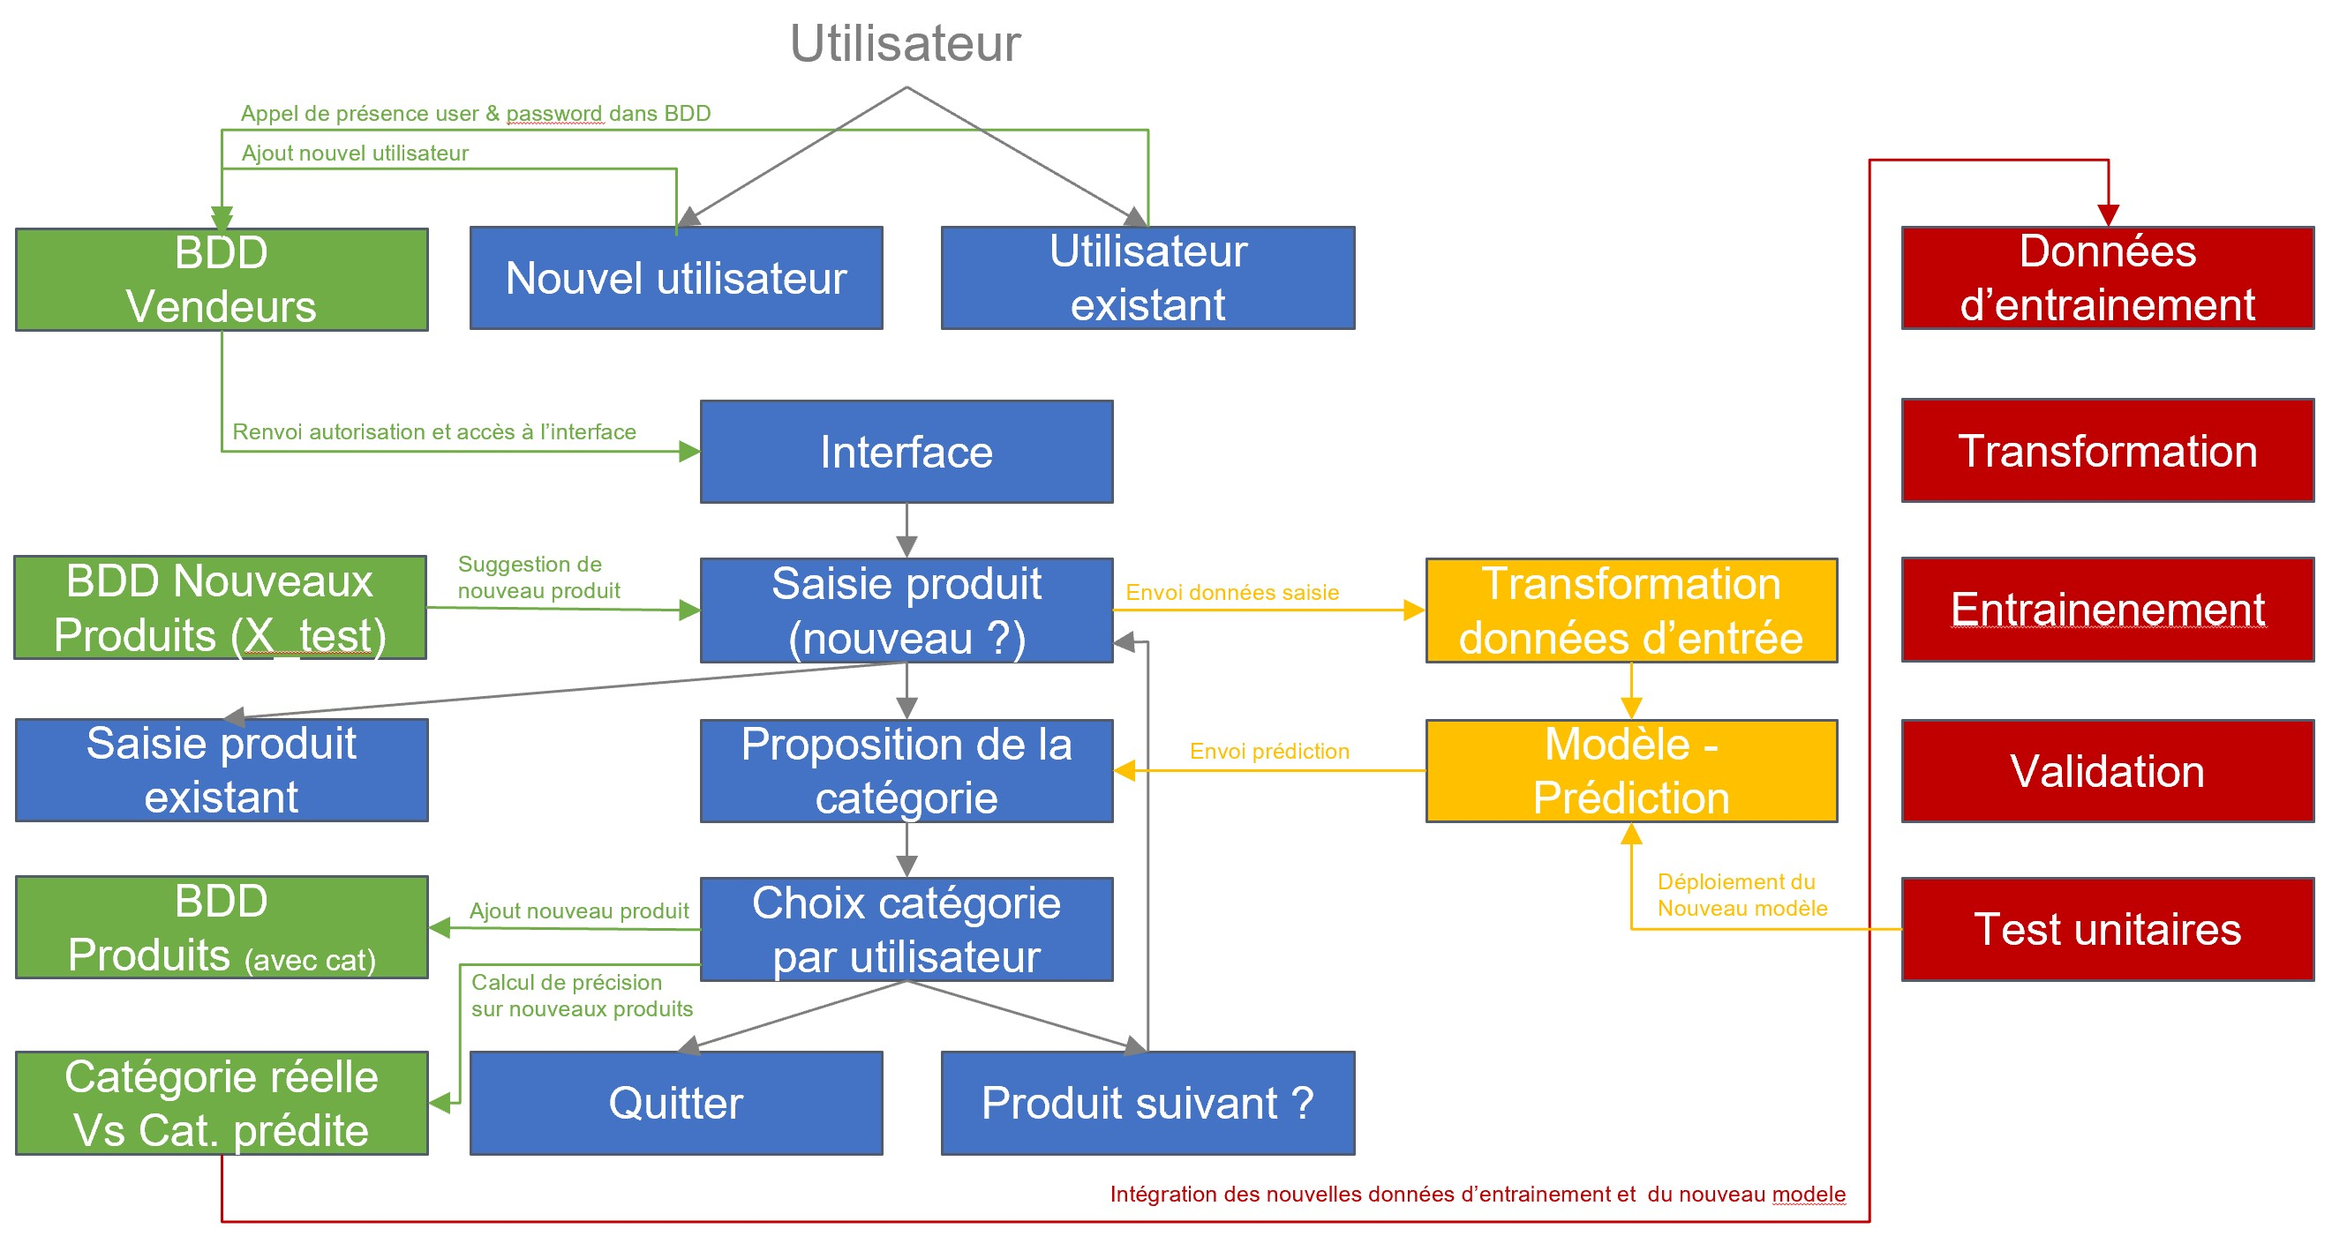
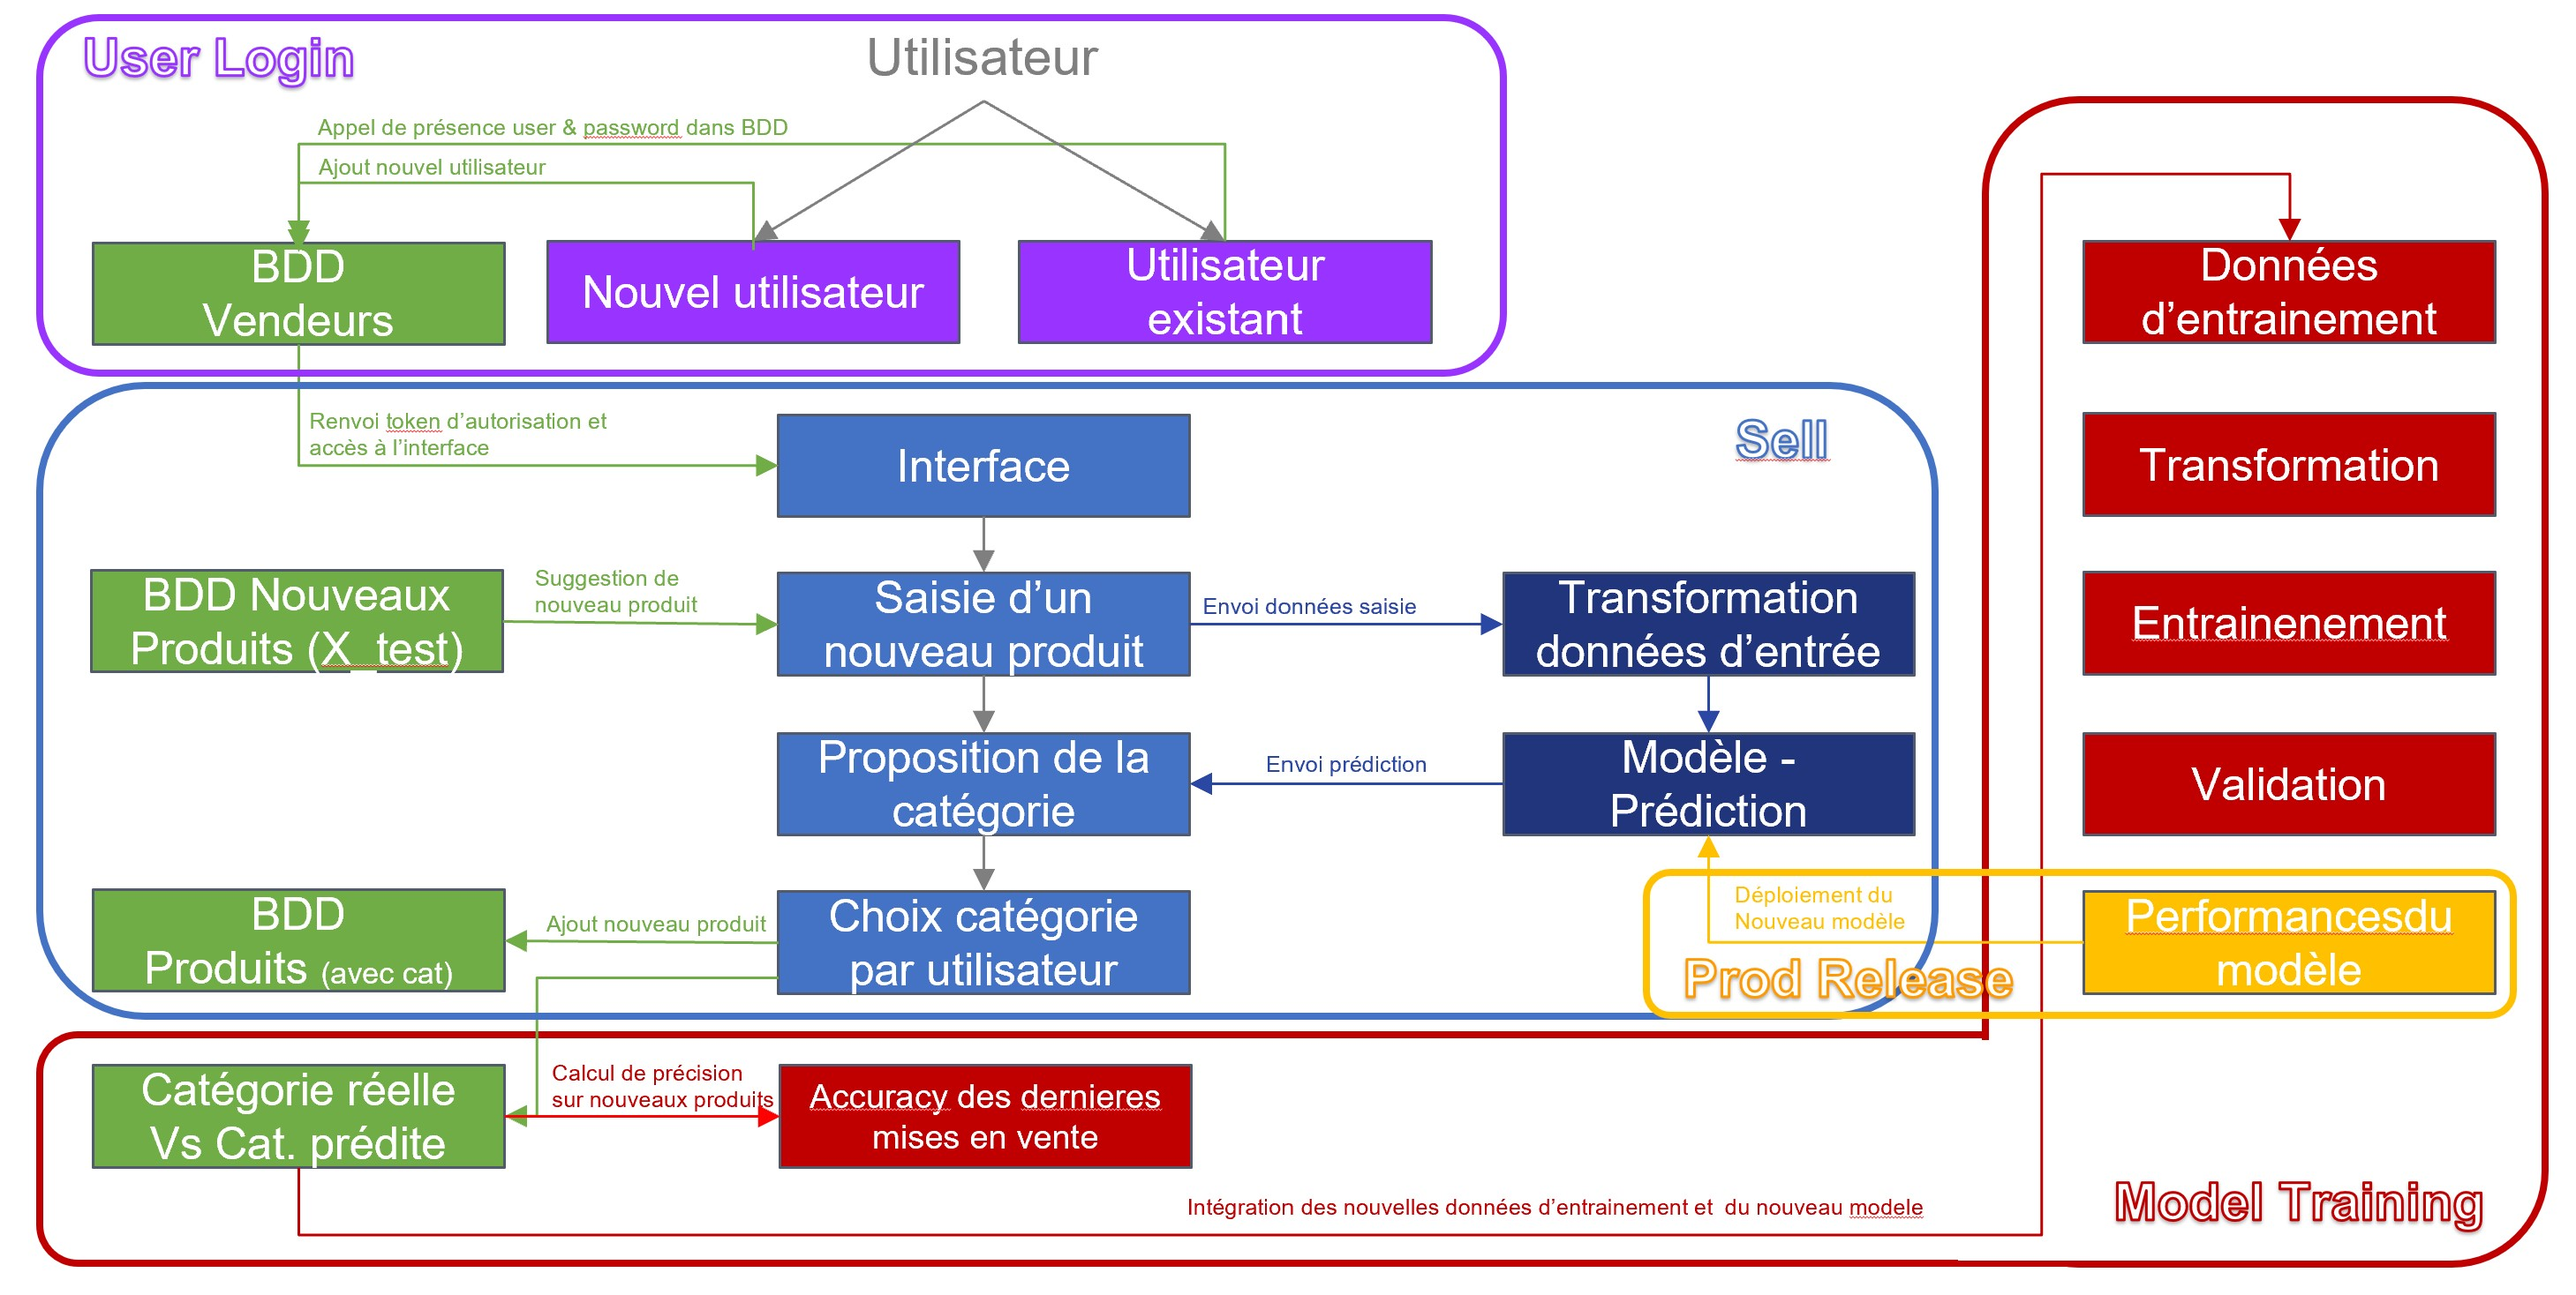
Final update

diff --git a/tests/test_rakuten.py b/tests/test_rakuten.py
@@ -1,0 +1,187 @@
+import os
+import requests
+from dotenv import load_dotenv
+import mysql.connector
+from mysql.connector import Error
+
+# Chargement du fichier .env uniquement si le script est exécuté manuellement
+if not os.getenv('GITHUB_ACTIONS'):
+    dotenv_path = 'docker/.env'
+    load_dotenv(dotenv_path)
+
+# Récupération des tokens d'accès depuis les variables d'environnement
+ACCESS_TOKEN_AUTH_0 = os.environ.get('ACCESS_TOKEN_AUTH_0')
+ACCESS_TOKEN_AUTH_1 = os.environ.get('ACCESS_TOKEN_AUTH_1')
+ACCESS_TOKEN_AUTH_2 = os.environ.get('ACCESS_TOKEN_AUTH_2')
+MYSQL_HOST = "localhost"
+MYSQL_USER = "root"
+MYSQL_PASSWORD = os.getenv("MYSQL_ROOT_PWD")
+MYSQL_DB = "rakuten_db"
+
+def test_calc_addition():
+    # Fonction test du résultat de 2+4
+    output = 2 + 4
+    assert output == 6
+    
+##############################################################################################  
+####### 1. Vérification du bon fonctionnement de la base de données Utilisateurs MySQL #######
+##############################################################################################    
+def test_MySQL():
+    
+    try:
+        connection = mysql.connector.connect(
+            host=MYSQL_HOST,
+            user=MYSQL_USER,
+            port="3306", 
+            password=MYSQL_PASSWORD,
+            database=MYSQL_DB
+        )
+        if connection.is_connected():
+            cursor = connection.cursor(dictionary=True)
+            query = f"SELECT * FROM Users WHERE username = 'Alice'"
+            cursor.execute(query)
+            user_connected = cursor.fetchone()
+            ### 1.1  Vérification du fonctionnement de la base de données Utilisateurs MySQL avec username == 'Alice'###
+            assert user_connected["username"] == 'Alice'
+            ### 1.2  Vérification du fonctionnement de la base de données Utilisateurs MySQL avec LastName == 'Sapritch'###
+            assert user_connected["LastName"] == 'Sapritch'
+            return
+    except Error as e:
+        print(f"Error while querying MySQL: {e}")
+    finally:
+        cursor.close()
+        connection.close()
+        
+################################################################################         
+####### 2. Vérification du bon fonctionnement de l'API FastAPI OAuth 2.0 #######
+#######    pour la génération de token et des accès sécurisés            #######
+################################################################################ 
+def test_access_authorization():
+    
+    url = 'http://localhost:8001'
+    
+    # 2.1 - Vérification du fonctionnement de l'API
+    response = requests.get(url)
+    # 2.2 - Vérification du fonctionnement de l'API acces sécurisé###
+    assert response.status_code == 200
+    
+    # 2.3 - Vérification de la génération de token
+    headers = {
+        'Content-Type': 'application/x-www-form-urlencoded',
+    }
+    data = {
+        'username': 'Alice',
+        'password': 'Alice',
+    }
+    response = requests.post(url+"/token", headers=headers, data=data)
+    ### 2.3.a - Vérification du processus de génération de token ###
+    assert response.status_code == 200
+    ### 2.3.b - Vérification de la valeur du token pour Alice ###
+    assert response.json()["access_token"]==ACCESS_TOKEN_AUTH_0
+    
+    # 2.4 Vérification de l'accès sécurisé en utilisant le token d'accès
+    #     Authorization niveau 0 = Pas d'acces au Train du modèle ni à la prediction
+    response = requests.get(url+"/secured", headers={"Authorization": f"Bearer {ACCESS_TOKEN_AUTH_0}"})
+    ### 2.4 - Authorisation niveau 0 pour Alice => Pas d'acces au Train du modèle ni à la prediction ###
+    assert response.status_code == 200
+    
+    # 2.5 - Authorization niveau 1 = Accès seulement à la prediction, mais pas d'acces au Train du modèle
+    response = requests.get(url+"/secured", headers={"Authorization": f"Bearer {ACCESS_TOKEN_AUTH_1}"})
+    ### 2.5 - Authorisation niveau 1 pour John => Accès seulement à la prediction, mais pas d'acces au Train du modèle ###
+    assert response.status_code == 200
+    
+    # 2.6 - Authorization niveau 2 = Accès à la prediction et au Train du modèle
+    response = requests.get(url+"/secured", headers={"Authorization": f"Bearer {ACCESS_TOKEN_AUTH_2}"})
+    ### 2.6 - Authorisation niveau 2 pour Fadimatou => Accès à la prediction et au Train du modèle ###
+    assert response.status_code == 200
+
+######################################################################
+####### 3. Vérification du bon fonctionnement de l'API Predict #######
+######################################################################
+def test_predict():
+    
+    url = 'http://localhost:8000'
+    
+    # 3.1 - Vérification de l'initialisation de l'API
+    response = requests.get(url+"/initialisation")
+    ### 3.1 - Vérification de l'initialisation de l'API ###
+    assert response.status_code == 200 
+    
+    # 3.2 - Vérification de la predicition en mode unsecured
+    headers={'Content-Type': 'application/json',
+             "Authorization": f"Bearer {ACCESS_TOKEN_AUTH_1}"
+             }
+    data={"dataset_path": "tests/predict/X_test_update.csv",
+          "images_path": "tests/predict/image_test",
+          "prediction_path": "tests/predict",
+          "api_secured": False,
+          }
+    response = requests.post(url+"/prediction", headers=headers, json=data)
+    # Vérifier si la réponse est valide avant de la décoder en JSON
+    if response.status_code == 200:
+        try:
+            response_json = response.json()
+        except ValueError:
+            print("Response is not in JSON format")
+    else:
+        print("Request failed with status code:", response.status_code)
+        print("Response Text:", response.text)
+
+    ### 3.2 - Vérification de la predicition en mode unsecured ###
+    assert response.status_code == 200
+    
+    # 3.3 Vérification de la predicition en mode secured avec un niveau d'autorisation = 1
+    headers={'Content-Type': 'application/json',
+             "Authorization": f"Bearer {ACCESS_TOKEN_AUTH_1}"
+             }
+    data["api_secured"] = True
+    response = requests.post(url+"/prediction", headers=headers, json=data)
+    ### 3.3 - Vérification de la predicition en mode secured avec un niveau d'autorisation = 1 ###
+    assert (response.status_code == 200)
+    
+    # 3.4 - Vérification du refus de predicition en mode secured avec un niveau d'autorisation = 0
+    headers={'Content-Type': 'application/json',
+             "Authorization": f"Bearer {ACCESS_TOKEN_AUTH_0}"
+             }
+    response = requests.post(url+"/prediction", headers=headers, json=data)
+    ### 3.4 - Vérification du refus de predicition en mode secured avec un niveau d'autorisation = 0 ###
+    assert response.status_code == 403
+    
+####################################################################
+####### 4. Vérification du bon fonctionnement de l'API Train #######
+####################################################################
+def test_train():
+    
+    url = 'http://localhost:8002'
+    
+  
+    # 4.1 - Vérification de la predicition en mode secured
+    headers={'Content-Type': 'application/json',
+             "Authorization": f"Bearer {ACCESS_TOKEN_AUTH_2}"
+             }
+    data={"x_train_path": "data/preprocessed/X_train_update.csv",
+          "y_train_path": "data/preprocessed/Y_train_CVw08PX.csv",
+          "images_path": "data/preprocessed/image_train",
+          "model_path": "models",
+          "n_epochs": 1,
+          "samples_per_class": 1,
+          "with_test": True,
+          "random_state": 42,
+          "api_secured": True
+          }
+
+    response = requests.post(url+"/train", headers=headers, json=data)
+    # Vérifier si la réponse est valide avant de la décoder en JSON
+    if response.status_code == 200:
+        try:
+            response_json = response.json()
+        except ValueError:
+            print("Response is not in JSON format")
+    else:
+        print("Request failed with status code:", response.status_code)
+        print("Response Text:", response.text)
+
+    ### 4.1 - Vérification de la predicition en mode secured avec un niveau d'autorisation = 2 ###
+    assert response.status_code == 200
+    
+ 

diff --git a/src/flows/flows_API.py b/src/flows/flows_API.py
@@ -28,6 +28,7 @@ class NewProductsInput(BaseModel):
 
 class ComputeMetricsInput(BaseModel):
     classes_path: Optional[str] = "data/preprocessed/new_classes.csv"
+    num_sales: Optional[int] = 10
     api_secured: Optional[bool] = False
 
 class SaveModelTrain(BaseModel):
@@ -220,7 +221,7 @@ def compute_metrics_new_products(input_data: ComputeMetricsInput, token: Optiona
         else:
             user_data = auth_response.json()
             user_info = user_data['FirstName'] + " " + user_data['LastName']
-            if user_data['Authorization'] < 1:
+            if user_data['Authorization'] < 2:
                 message_response = {"message": f"{user_info} n'est pas autorisé à calculer les metrics des nouveaux produits en attente"}
                 return message_response
     else:
@@ -234,8 +235,10 @@ def compute_metrics_new_products(input_data: ComputeMetricsInput, token: Optiona
         new_classes_df = pd.read_csv(new_classes_path)
         
         # Calcul de l'accuracy
-        if len(new_classes_df)>0:
-            accuracy = (new_classes_df['cat_real'] == new_classes_df['cat_pred']).mean()
+        num_new_products = len(new_classes_df)
+        if num_new_products>0:
+            num_new_products = min(num_new_products, input_data.num_sales)
+            accuracy = (new_classes_df['cat_real'].iloc[-num_new_products:] == new_classes_df['cat_pred'].iloc[-num_new_products:]).mean()
         else:
             accuracy = 1.0
         

diff --git a/streamlit_app/README.md b/streamlit_app/README.md
@@ -1,39 +1,4 @@
-![Alt Whaooh!](./streamlit_app/assets/miss-honey-glasses-off.gif)
+![Alt Whaooh!](./streamlit_app/assets/full_process.jpg)
 
-## Introduction
-This repository contains the code for our project **TRANSLATION SYSTEM FOR CONNECTED GLASSES**, developed during our [Data Scientist training](https://datascientest.com/en/data-scientist-course) at [DataScientest](https://datascientest.com/).
 
-The purpose of this project is to explore and implement exploration techniques.
-
-This project is developed by the following team :
-- Keyne Dupont ([LinkedIn](https://www.linkedin.com/in/keyne-dupont/))
-- Tia Ratsimbason ([LinkedIn](https://www.linkedin.com/in/tia-ratsimbason-42110887/))
-- Olivier Renouard ([LinkedIn](https://www.linkedin.com/in/olivier-renouard-b6b8a535/) / [GitHub](https://github.com/Demosthene-OR))
-
-## Notebooks
-You can browse and run the **[notebooks](./notebooks)**. 
-
-To run the notebooks, you will need to install the dependencies (in a dedicated environment)  
-You will find the file requirements.txt in notebooks folder
-```
-pip install -r requirements.txt
-```
-
-## Streamlit App
-You can also run the **Streamlit App directly on the Cloud**: 
-
-**[Translation System for Connected Glasses](https://demosthene-or-avr23-cds-translation.hf.space/)**
-
-To run the **app locally** (be careful with the paths of the files in the app):
-```shell
-conda create --name Avr23-cds-translation python=3.10
-conda activate Avr23-cds-translation
-cd "repertoire où se trouve l'application"
-pip install -r requirements.txt
-# if your operating system is Windows 11, run the following line:
-pip install protobuf==3.20.3 streamlit==1.28.0
-
-streamlit run app.py
-```
-
-The app should then be available at [localhost:8501](http://localhost:8501).
+The app should is available at [localhost:8501](http://localhost:8501).

diff --git a/README.md b/README.md
@@ -102,7 +102,8 @@ Once you have downloaded the github repo, open the anaconda powershell on the ro
     http://localhost:8080/?server=users_db&username=root&db=rakuten_db&select=Users  
     password = Rakuten  
 
-    You can then run..  
+    You can then run:
+>   
     1 - Token generation (to login) :  
 >   `curl 'http://localhost:8001/token' --header 'Content-Type: application/x-www-form-urlencoded' \`    
 >       `--data-urlencode 'username=John' --data-urlencode 'password=John'`    
@@ -117,6 +118,10 @@ Once you have downloaded the github repo, open the anaconda powershell on the ro
 >   `curl 'http://localhost:8002/train' --header 'Content-Type: application/json' --header 'Authorization: Bearer "Obtained access token"' \`    
 >       `--data '{"api_secured": "True"}'`  
         There are many paramteters available   
+          
+        Finally, if you want to have an overview of the full process, 
+        we encourage you to launch Streamlit:
+>   `http://localhost:8501/`
 
 <p><small>Project based on the <a target="_blank" href="https://drivendata.github.io/cookiecutter-data-science/">cookiecutter data science project template</a>. #cookiecutterdatascience</small></p>
 
